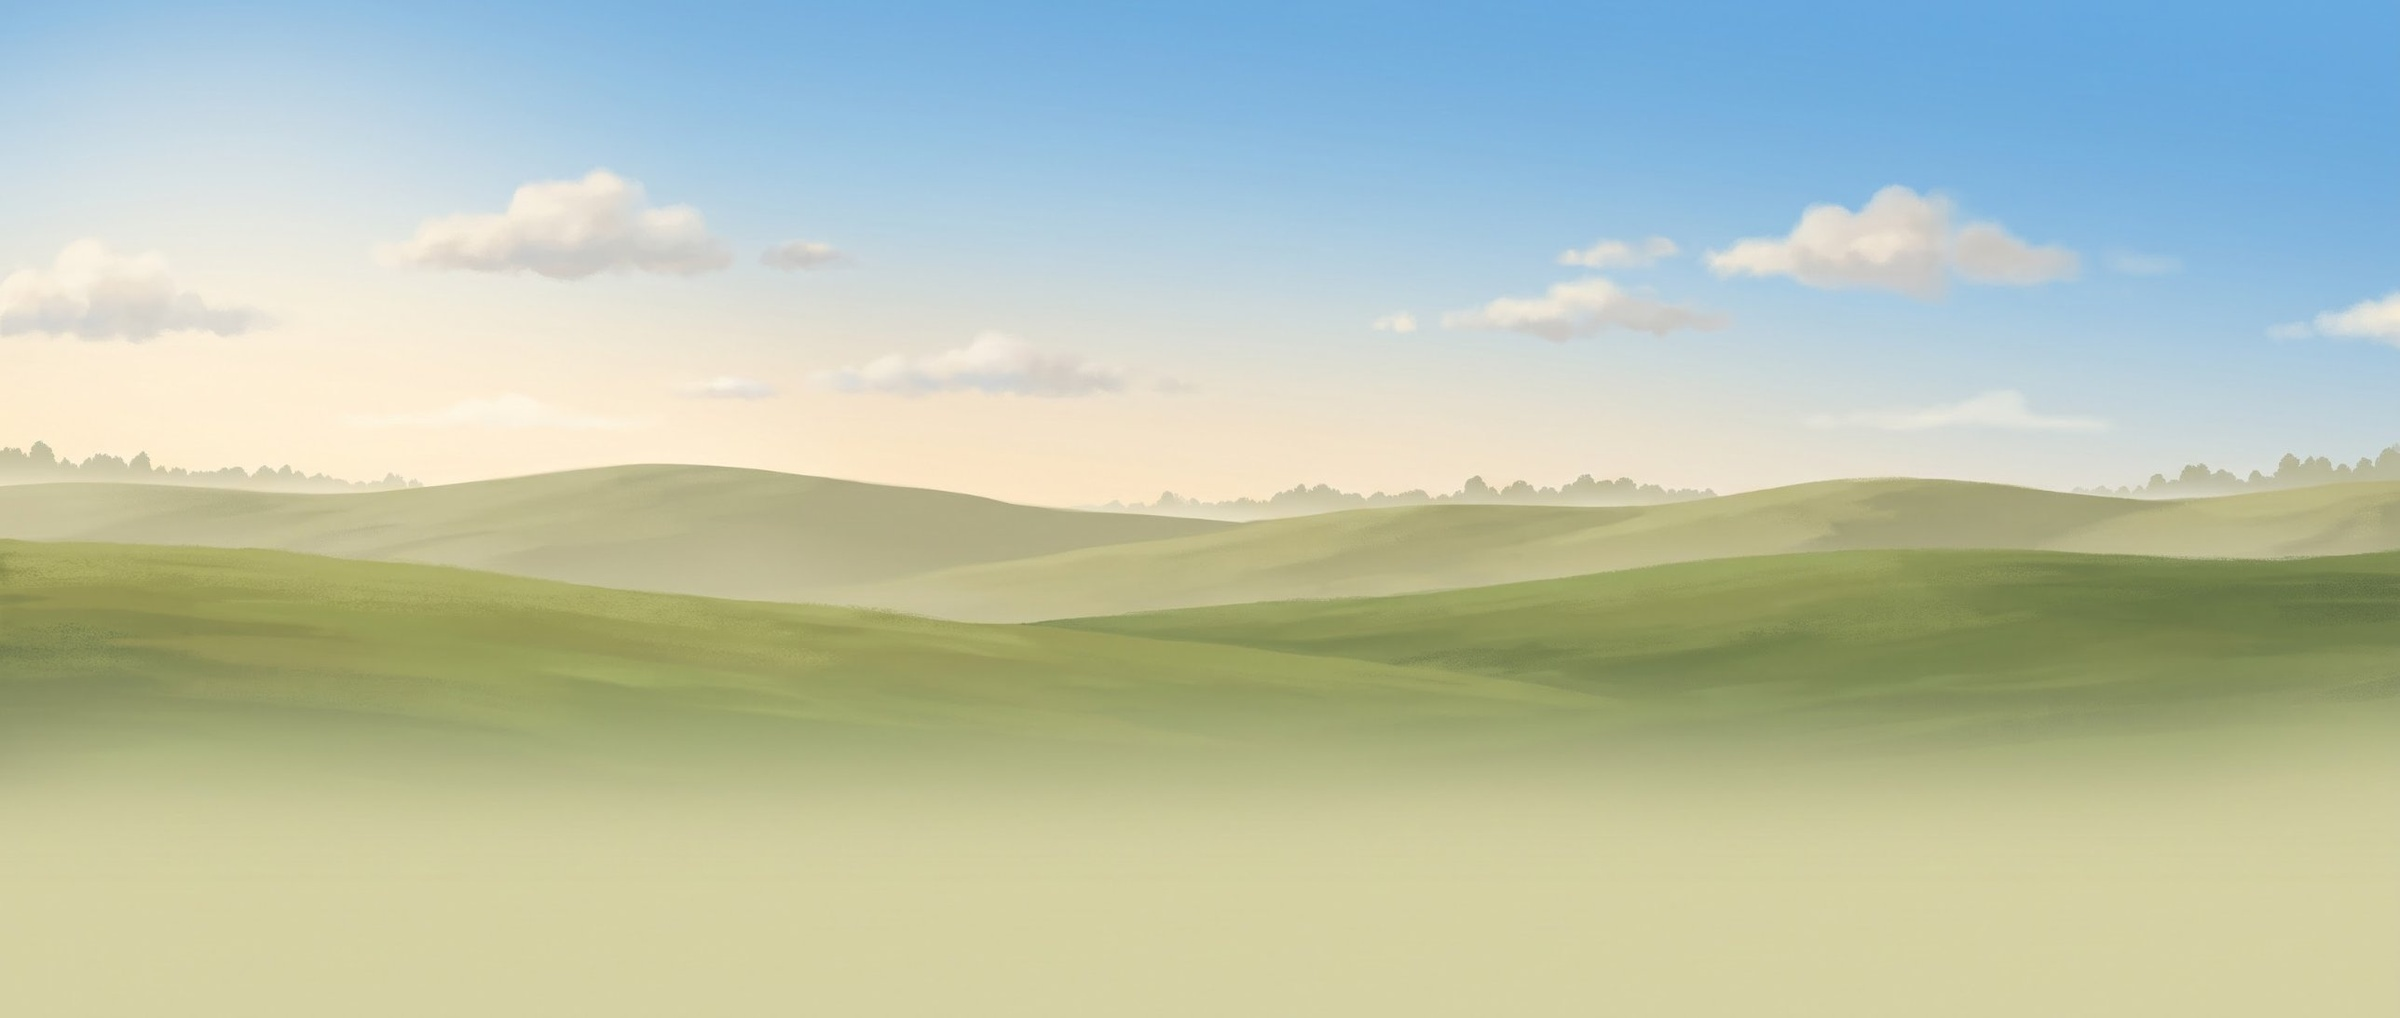
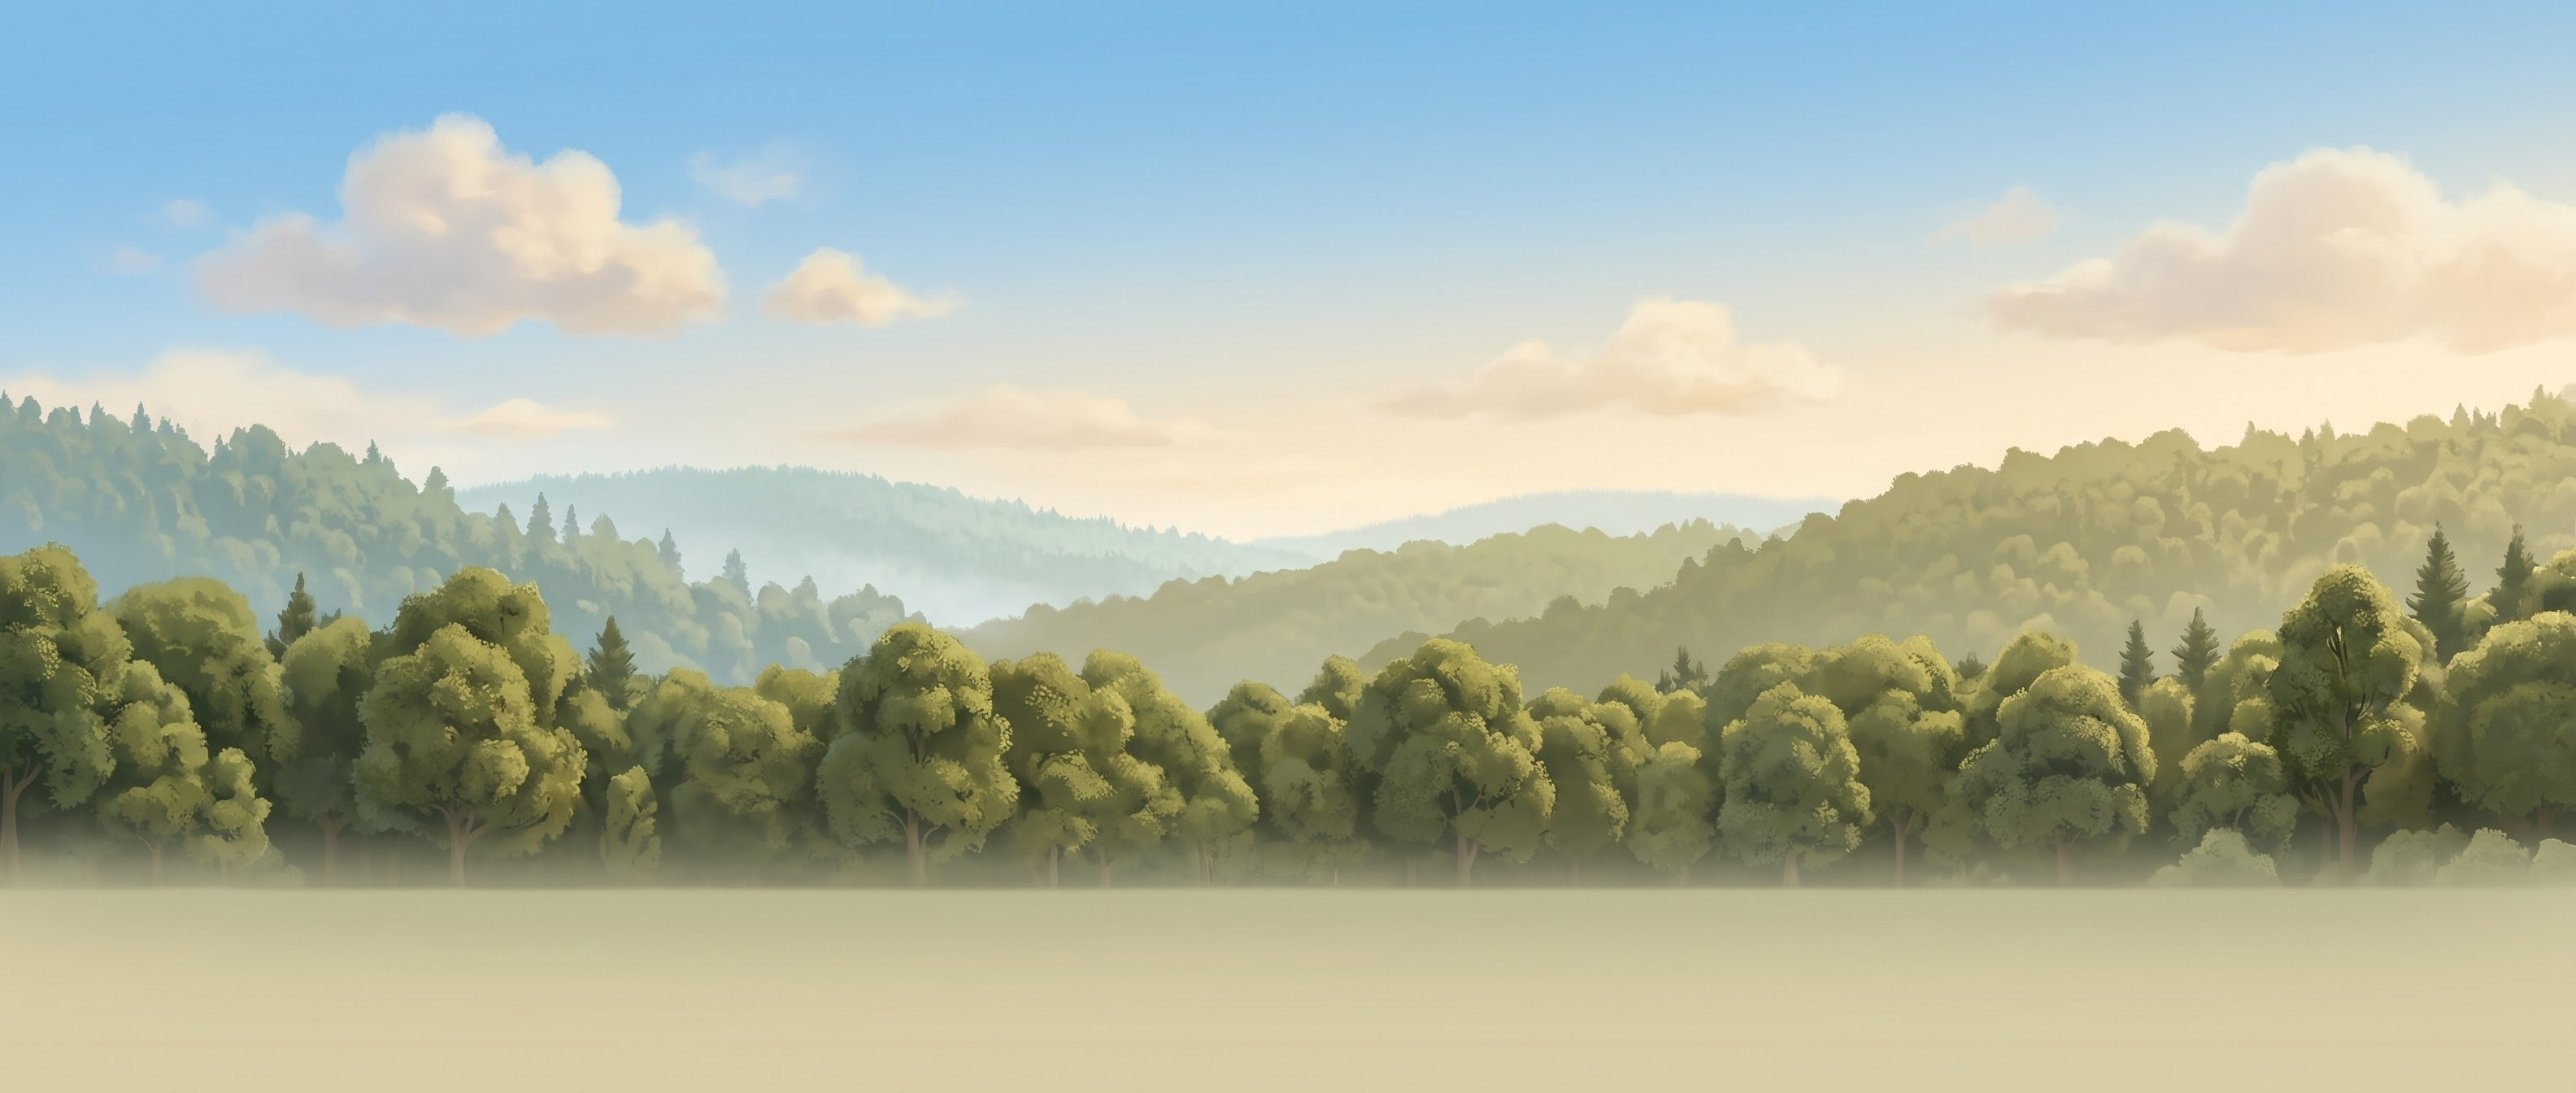
otlak: ormanlı panorama, dokulu taş duvar, sis rengi
Claude-Session: https://claude.ai/code/session_01JhiaMn4ZMenYBQh7xc7A93

diff --git a/flutter_app/lib/bahce3d.dart b/flutter_app/lib/bahce3d.dart
@@ -89,12 +89,30 @@ class _Zemin {
   }
 }
 
+// ---- taş duvar dokusu (Gemini): yatayda tekrarlanır, bahçe duvarına kaplanır
+class _Duvar {
+  static ui.Image? im;
+  static bool _deniyor = false;
+  static const boy = 4.43; // dokunun metre karşılığı (yükseklik 1,1 m)
+
+  static Future<void> yukle(String ad) async {
+    if (ad.isEmpty || im != null || _deniyor) return;
+    _deniyor = true;
+    try {
+      final b = await rootBundle.load('assets/doku/${ad}_duvar.jpg');
+      final codec = await ui.instantiateImageCodec(b.buffer.asUint8List());
+      im = (await codec.getNextFrame()).image;
+    } catch (e) {
+      debugPrint('$ad duvar dokusu yüklenemedi: $e');
+    }
+  }
+}
+
 // ---- ufuk panoraması (Gemini): yarım turu (180°) kaplar, ikinci yarı aynalanır → 360° dikişsiz. Her şey sabit; yalnızca bakışla kayar.
 class _Pano {
   static final resimler = <String, ui.Image>{};
   static final _deniyor = <String>{};
-  static const ufukSatir = 840.0; // panoramada ufuk (sis bandının başladığı) satırı, kaynak pikseli
-  static const ustRenk = Color(0xFF78B1DE); // görüntünün üstünün üzerindeki gökyüzü
+  static const ufukSatir = 900.0; // panoramada ufuk (sis bandının başladığı) satırı, kaynak pikseli
 
   static Future<void> yukle(String ad) async {
     if (ad.isEmpty || resimler.containsKey(ad) || !_deniyor.add(ad)) return;
@@ -268,7 +286,7 @@ class _Bahce3BState extends State<Bahce3B> with SingleTickerProviderStateMixin {
     });
     if (widget.sahne != 'magara') {
       final ay0 = _ayarOf(widget.sahne);
-      Future.wait([_Zemin.yukle(), _Zemin.yukleSet(ay0.doku), _Pano.yukle(ay0.pano)]).whenComplete(() {
+      Future.wait([_Zemin.yukle(), _Zemin.yukleSet(ay0.doku), _Pano.yukle(ay0.pano), _Duvar.yukle(ay0.doku)]).whenComplete(() {
         if (mounted) setState(() {});
       });
     }
@@ -1115,9 +1133,9 @@ class _Dunya extends CustomPainter {
           ..setFloat(16, zs != null ? 0.8214 : 0.5974)
           ..setFloat(17, zs != null ? 0.6923 : 0.5554)
           ..setFloat(18, zs != null ? 0.5210 : 0.4720)
-          ..setFloat(19, otlak ? 0.835 : 0.60)
-          ..setFloat(20, otlak ? 0.820 : 0.78)
-          ..setFloat(21, otlak ? 0.640 : 0.50)
+          ..setFloat(19, otlak ? 0.80 : 0.60)
+          ..setFloat(20, otlak ? 0.775 : 0.78)
+          ..setFloat(21, otlak ? 0.62 : 0.50)
           ..setFloat(22, otlak ? 0.97 : 0.9)
           ..setFloat(23, otlak ? 0.5 : 0.0)
           ..setFloat(24, zs != null ? 1.0 : 1.12)
@@ -1268,6 +1286,7 @@ class _Dunya extends CustomPainter {
 
       // çit: kazıklar, iki kuşak ve sivri uçlu tahtalar (ağaçlar hep çitin içinde: önce çit, sonra ağaçlar)
       final cit = _Ucgen();
+      final dP = <double>[], dT = <double>[], dC = <int>[], sP = <double>[], sC = <int>[]; // doku kaplı duvar: konum, doku koordinatı, ton; sis katmanı
       void kenar(Offset a, Offset b) {
         final l = (b - a).distance, yon = (b - a) / l, adim = 0.3, tw = 0.11;
         final golge = yon.dx.abs() > 0.5 ? 0.0 : 0.08; // yan çitler biraz koyu
@@ -1276,6 +1295,29 @@ class _Dunya extends CustomPainter {
         if (ay.cit == 'tas') {
           final bahce = ay.pano.isNotEmpty; // bahçe duvarı: daha yüksek, harçlı, sıralı (kaymalı) taş sıraları
           final hw = bahce ? 1.1 : 0.62, sira = bahce ? 4 : 2, bl = bahce ? 0.62 : 0.55;
+          final dim = bahce ? _Duvar.im : null;
+          if (dim != null) {
+            // gerçek taş dokusu: 0,4 m'lik dilimler (perspektif hatası küçük kalsın), uzakta sis katmanı
+            final tw = dim.width.toDouble(), th = dim.height.toDouble();
+            final ton = yon.dx.abs() > 0.5 ? 0xFFFFFFFF : 0xFFE4E0D6;
+            for (var t = 0.0; t < l - 0.01; t += 0.4) {
+              final tt = math.min(t + 0.4, l), p0 = a + yon * t, p1 = a + yon * tt;
+              final q0 = s.kamera(p0.dx, p0.dy), q1 = s.kamera(p1.dx, p1.dy);
+              if (q0.dy < _yakin || q1.dy < _yakin || math.min(q0.dy, q1.dy) > _gorus) continue;
+              final ex = ekran(q0).dx;
+              if (ex < -80 || ex > W + 80) continue;
+              final A = ekran(q0), B = ekran(q1), C = ekran(q1, hw), D = ekran(q0, hw);
+              final u0 = t / _Duvar.boy * tw, u1 = tt / _Duvar.boy * tw;
+              dP.addAll([A.dx, A.dy, B.dx, B.dy, C.dx, C.dy, A.dx, A.dy, C.dx, C.dy, D.dx, D.dy]);
+              dT.addAll([u0, th, u1, th, u1, 0, u0, th, u1, 0, u0, 0]);
+              dC.addAll([ton, ton, ton, ton, ton, ton]);
+              int sis(double d) => Color.fromRGBO(204, 198, 158, (1 - math.exp(-d * 0.03)).clamp(0.0, 0.92)).toARGB32();
+              final s0 = sis(q0.dy), s1 = sis(q1.dy);
+              sP.addAll([A.dx, A.dy, B.dx, B.dy, C.dx, C.dy, A.dx, A.dy, C.dx, C.dy, D.dx, D.dy]);
+              sC.addAll([s0, s1, s1, s0, s1, s0]);
+            }
+            return;
+          }
           for (var t = 0.0; t < l - 0.01; t += bl) {
             final p0 = a + yon * t, p1 = a + yon * math.min(t + bl, l);
             final q0 = s.kamera(p0.dx, p0.dy), q1 = s.kamera(p1.dx, p1.dy);
@@ -1424,6 +1466,15 @@ class _Dunya extends CustomPainter {
         kenar(Offset(_citX, z1), Offset(-_citX, z1));
         kenar(Offset(-_citX, z1), Offset(-_citX, z0));
         cit.ciz(c);
+        if (dP.isNotEmpty) {
+          final dim = _Duvar.im!;
+          c.drawVertices(
+            ui.Vertices.raw(VertexMode.triangles, Float32List.fromList(dP), textureCoordinates: Float32List.fromList(dT), colors: Int32List.fromList(dC)),
+            BlendMode.modulate,
+            Paint()..shader = ui.ImageShader(dim, TileMode.repeated, TileMode.clamp, Matrix4.identity().storage, filterQuality: FilterQuality.medium),
+          );
+          c.drawVertices(ui.Vertices.raw(VertexMode.triangles, Float32List.fromList(sP), colors: Int32List.fromList(sC)), BlendMode.dst, Paint());
+        }
       }
     }
 

diff --git a/tools/otlak_doku.py b/tools/otlak_doku.py
@@ -49,8 +49,6 @@ def main():
     yaz('otlak_yol', yol, 4, 1)
     # panorama
     p = Image.open(os.path.join(KAYNAK, 'pano.jpg')).convert('RGB')
-    if p.width > 2400:
-        p = p.resize((2400, round(p.height * 2400 / p.width)), Image.LANCZOS)
     p.save(os.path.join(CIKIS, 'otlak_pano.jpg'), quality=95)
     a = np.asarray(p).astype(np.float32)
     print('pano', p.size, 'üst renk', a[:6].reshape(-1, 3).mean(0).round(1), 'alt renk', a[-6:].reshape(-1, 3).mean(0).round(1))
@@ -58,4 +56,17 @@ def main():
         print(' satır', y, a[y].mean(0).round(0))
 
 
+def duvar():
+    # taş duvar: yatay döşenebilir (yalnız yatay çapraz geçiş), 2048x512
+    im = Image.open(os.path.join(KAYNAK, 'duvar.jpg')).convert('RGB').resize((2048, 508), Image.LANCZOS)
+    a = np.asarray(im).astype(np.float32)
+    w = a.shape[1]
+    kay = np.roll(a, w // 2, axis=1)
+    m = (np.sin(np.pi * (np.arange(w) + 0.5) / w) ** 2)[None, :, None]
+    o = a * m + kay * (1 - m)
+    Image.fromarray(o.clip(0, 255).astype(np.uint8)).save(os.path.join(CIKIS, 'otlak_duvar.jpg'), quality=94)
+    print('duvar', im.size)
+
+
 main()
+duvar()
